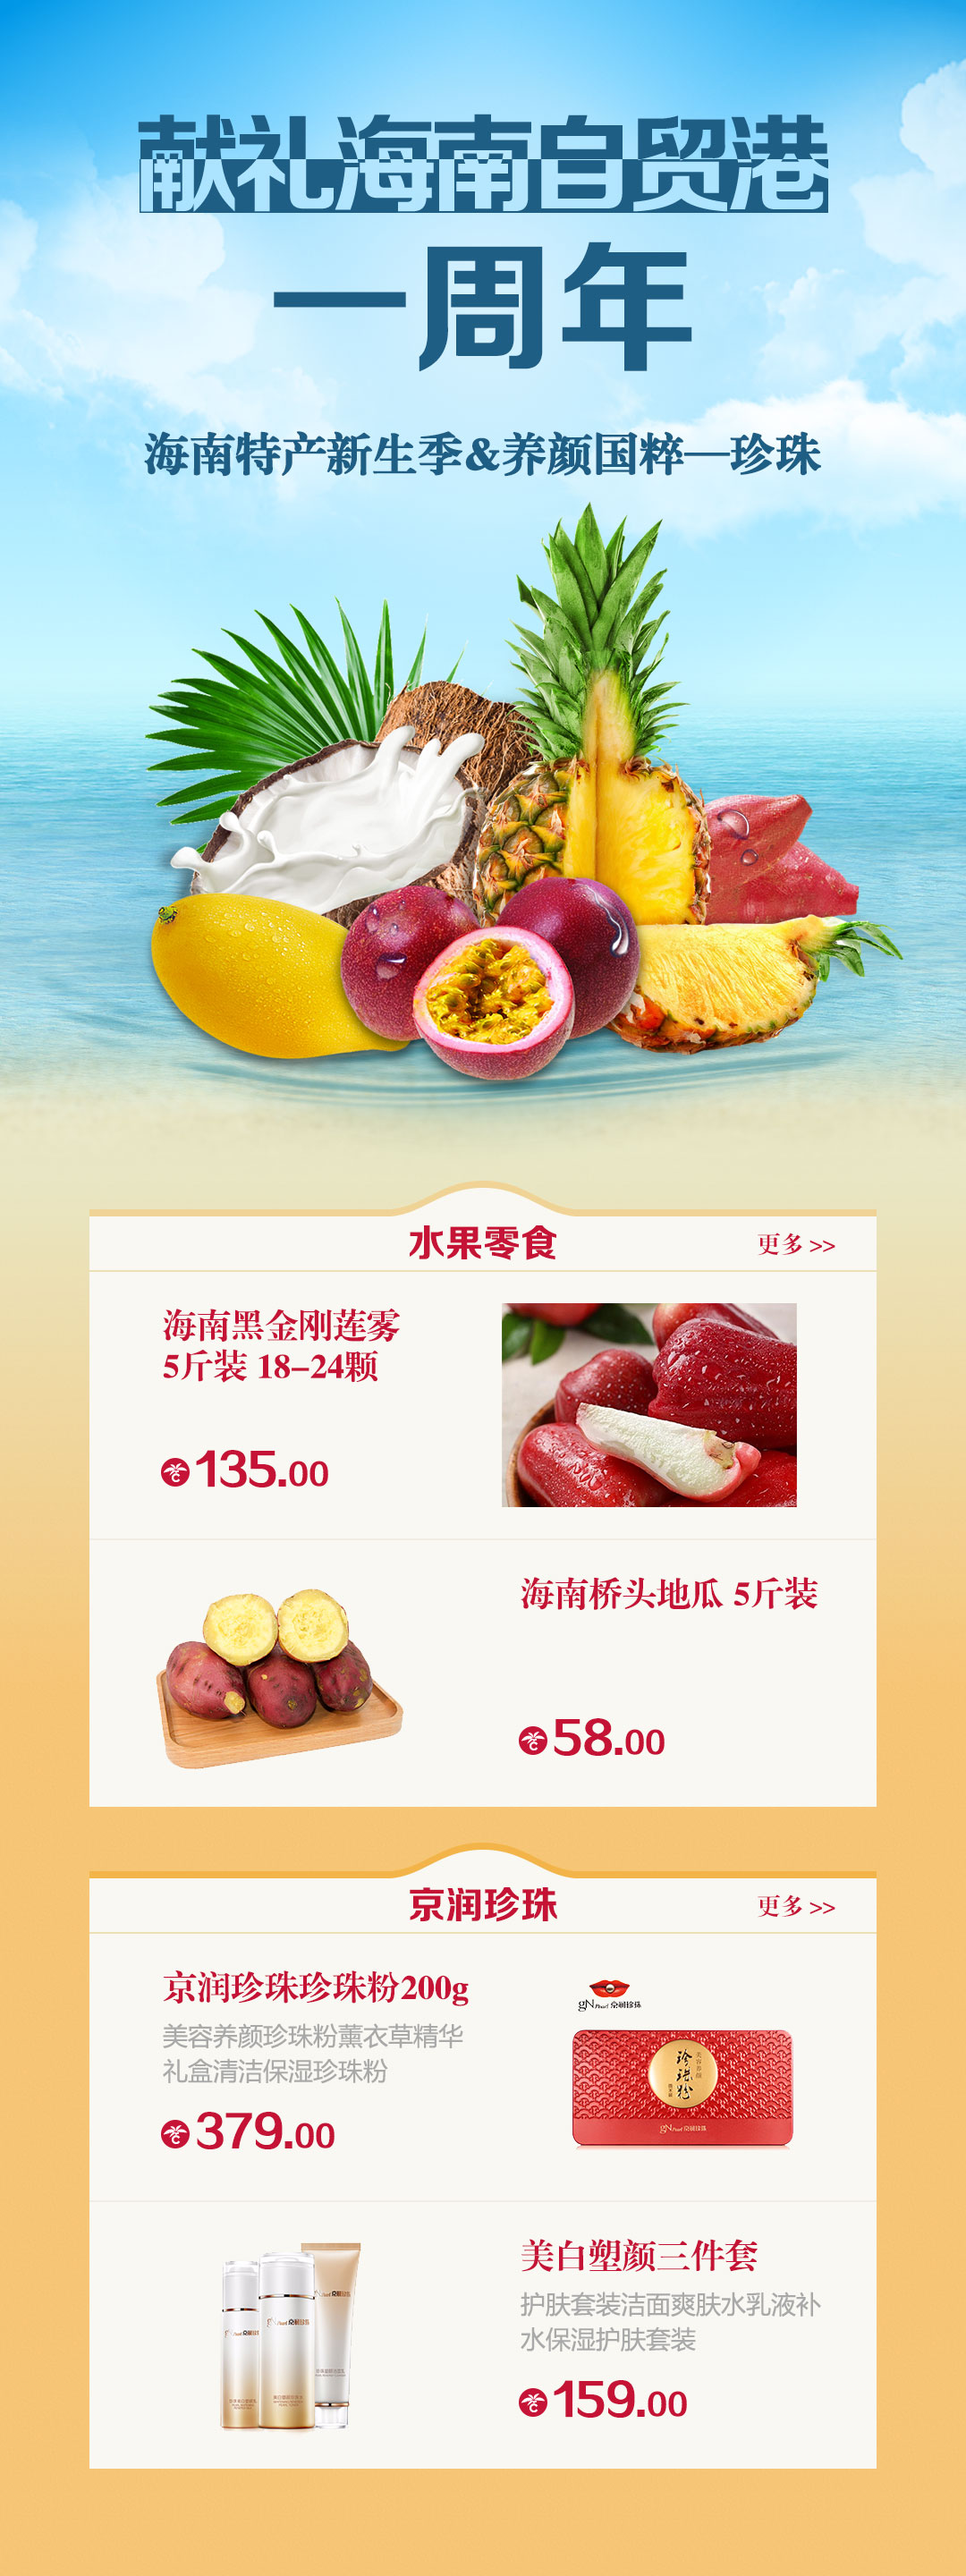
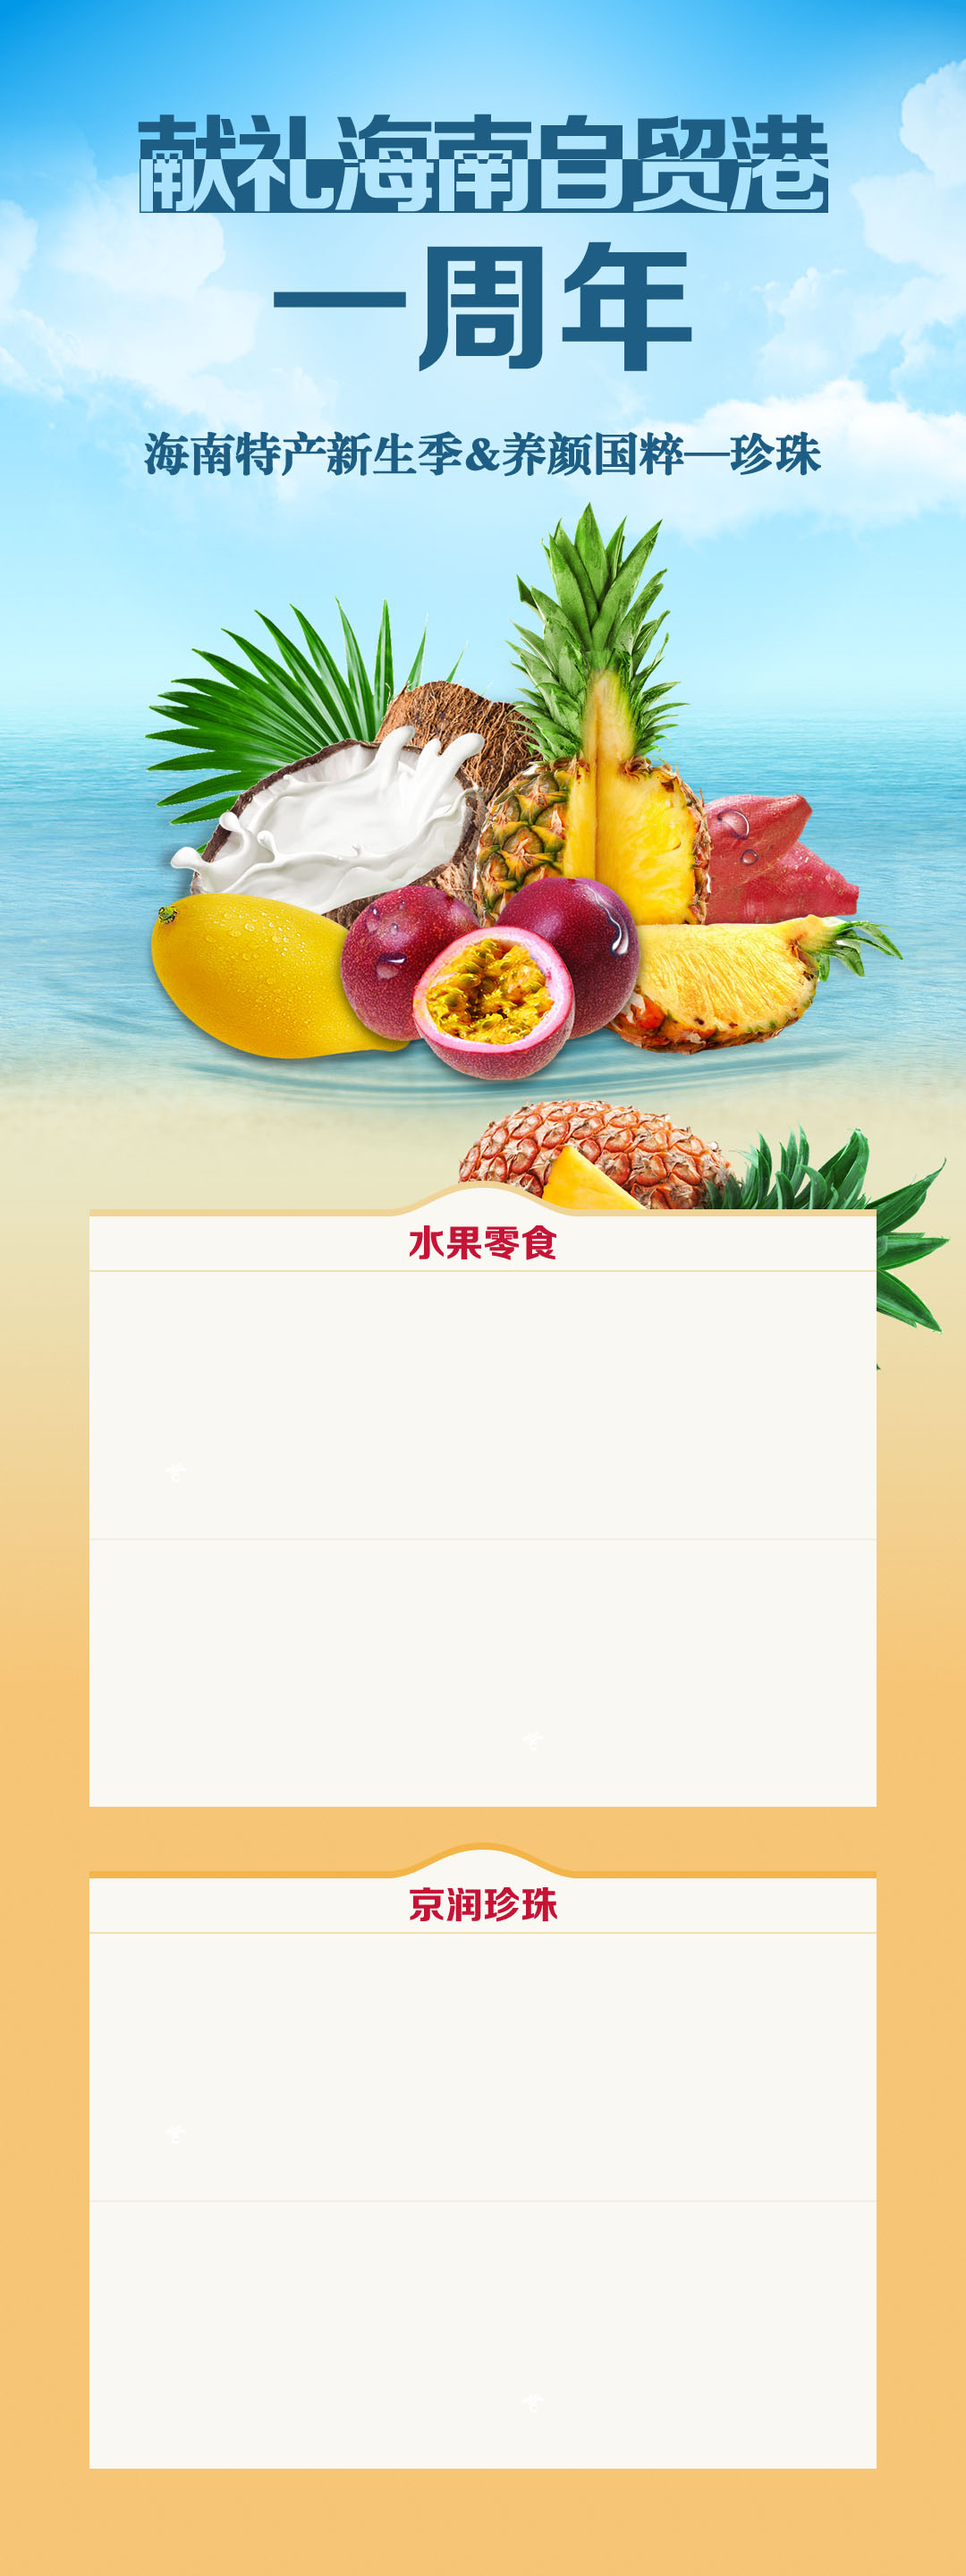
修改food.html

diff --git a/public/static/food.html b/public/static/food.html
@@ -4,7 +4,7 @@
   <meta name="viewport" content="width=device-width, initial-scale=1.0">
   <meta http-equiv="X-UA-Compatible" content="ie=edge">
   <title>海南特产</title>
-  <link rel="stylesheet" href="//at.alicdn.com/t/font_1126106_ah7hai1tsp.css">
+  <link rel="stylesheet" href="//at.alicdn.com/t/font_1244015_taaw89pdwhh.css">
   <style>
     html,body {
       margin: 0 auto;
@@ -38,7 +38,11 @@
       height: 20px;
       position: absolute;
       z-index: 2;
-      right: 0.93rem;
+      right: 0.8rem;
+      font-size: 10px;
+      padding-top: 5px;
+      font-weight: 600;
+      color: #C61436;
     }
     .more>a{
       display: block;
@@ -74,17 +78,114 @@
     .four{
       top: 855px;
     }
+    .flex{
+      display: flex;
+      height: 100%;
+      overflow: hidden;
+    }
+    .flex>.text-wrapper{
+      flex: 1;
+      padding: 14px 0 13px 18px;
+      display: flex;
+      flex-direction: column;
+      justify-content: space-between;
+    }
+    .flex>.text-wrapper>.name{
+      font-size: 13px;
+      color: #C61436;
+      font-weight: 600;
+      margin: 0;
+    }
+    .flex>.text-wrapper>.desc{
+      font-size: 10px;
+      color: #A9A9A9;
+      margin: 0;
+    }
+    .flex>.text-wrapper>.price{
+      font-size: 17px;
+      color: #C61436;
+      font-weight: 700;
+      margin: 0;
+    }
+    .flex>.text-wrapper>.price>.min-font{
+      font-size: 11px;
+      font-weight: 1100;
+    }
+    .flex>.text-wrapper>.price>.icon-img{
+      width: 12px;
+      height: 12px;
+    }
+    .flex>.img-wrapper{
+      flex: 1;
+      padding: 15px;
+    }
+    .flex>.img-wrapper>.img{
+      display: block;
+      width: 100%;
+      height: 100%;
+    }
   </style>
 </head>
 <body>
   <div class="main-wrapper">
     <div class="back iconfont" onclick="goBack()">&#xe61e;</div>
-    <div class="more fruit"><a onclick="goList('18591')"></a></div>
-    <div class="item first"><a onclick="goDetail('176496')"></a></div>
-    <div class="item second"><a onclick="goDetail('119408')"></a></div>
-    <div class="more pearls"><a onclick="goList('18591')"></a></div>
-    <div class="item third"><a onclick="goDetail('160842')"></a></div>
-    <div class="item four"><a onclick="goDetail('175811')"></a></div>
+    <div class="more fruit"><a onclick="goList('18591')">更多>></a></div>
+    <div class="item first">
+      <a onclick="goDetail('176496')">
+        <div class="flex">
+          <div class="text-wrapper">
+            <p class="name">海南特产 陆侨无核荔枝 红荔珍品 1500克/箱 约66颗</p>
+            <!-- <p class="desc">水果的文字介绍内容内容内容水果的文字</p> -->
+            <p class="price"><img class="icon-img" src="./icon.png" alt="无"/>338.<span class="min-font">00</span></p>
+          </div>
+          <div class="img-wrapper">
+            <img class="img" src="https://vendor.cocogc.cn/profile/shops/2019-05-30/890a188d-3126-4692-b3cc-3a5a2c955c14.jpeg" alt="无">
+          </div>
+        </div>
+      </a>
+    </div>
+    <div class="item second">
+      <a onclick="goDetail('119408')">
+        <div class="flex">
+          <div class="img-wrapper">
+            <img class="img" src="https://vendor.cocogc.cn/profile/shops/2019-04-12/a1ea1c2c-5919-4a55-a862-23619ad17c2c.png" alt="无">
+          </div>
+          <div class="text-wrapper" style="padding-left: 0">
+            <p class="name">海南特产 桥头地瓜 5斤装</p>
+            <p class="price"><img class="icon-img" src="./icon.png" alt="无"/>58.<span class="min-font">00</span></p>
+          </div>
+        </div>
+      </a>
+    </div>
+    <div class="more pearls"><a onclick="goList('18591')">更多>></a></div>
+    <div class="item third">
+      <a onclick="goDetail('160842')">
+        <div class="flex">
+          <div class="text-wrapper">
+            <p class="name">京润珍珠粉200g</p>
+            <p class="desc">美容养颜珍珠粉薰衣草精华礼盒清洁保湿珍珠粉</p>
+            <p class="price"><img class="icon-img" src="./icon.png" alt="无"/>379.<span class="min-font">00</span></p>
+          </div>
+          <div class="img-wrapper">
+            <img class="img" src="https://vendor.cocogc.cn/profile/shops/2019-04-16/3d47e410-95e1-403f-8570-d1d16dadaabf.jpeg" alt="无">
+          </div>
+        </div>
+      </a>
+    </div>
+    <div class="item four">
+      <a onclick="goDetail('175811')">
+        <div class="flex">
+            <div class="img-wrapper">
+              <img class="img" src="https://vendor.cocogc.cn/profile/shops/2019-04-17/09988228-a17f-4b9a-bc2b-d2b39a385007.jpeg" alt="无">
+            </div>
+            <div class="text-wrapper" style="padding-left: 0">
+              <p class="name">美白塑颜三件套</p>
+              <p class="desc">护肤套装洁面爽肤水乳液补水保湿护肤套装</p>
+              <p class="price"><img class="icon-img" src="./icon.png" alt="无"/>159.<span class="min-font">00</span></p>
+            </div>
+        </div>
+      </a>
+    </div>
   </div>
   <script>
   !function(e,t){function n(){t.body?t.body.style.fontSize=12*o+"px":t.addEventListener("DOMContentLoaded",n)}function d(){var e=i.clientWidth/10;i.style.fontSize=e+"px"}var i=t.documentElement,o=e.devicePixelRatio||1;if(n(),d(),e.addEventListener("resize",d),e.addEventListener("pageshow",function(e){e.persisted&&d()}),o>=2){var a=t.createElement("body"),s=t.createElement("div");s.style.border=".5px solid transparent",a.appendChild(s),i.appendChild(a),1===s.offsetHeight&&i.classList.add("hairlines"),i.removeChild(a)}}(window,document);

diff --git a/src/common/storage/storage.js b/src/common/storage/storage.js
@@ -21,42 +21,82 @@ class Storage {
     this.prefix = storage_prefix
   }
 
-  set (key, value) {
-    try {
-      value = JSON.stringify(value)
-    } catch (e) {
-      value = value
+  // set (key, value) {
+  //   try {
+  //     value = JSON.stringify(value)
+  //   } catch (e) {
+  //     value = value
+  //   }
+
+  //   this.store.setItem(this.prefix + key, value)
+
+  //   return this
+  // }
+
+  // get (key) {
+  //   if (!key) {
+  //     throw new Error('没有找到key。')
+  //   }
+  //   if (typeof key === 'object') {
+  //     throw new Error('key不能是一个对象。')
+  //   }
+  //   let value = this.store.getItem(this.prefix + key)
+
+  //   if (value === null) {
+  //     return undefined
+  //   }
+
+  //   try {
+  //     value = JSON.parse(value)
+  //   } catch (e) {
+  //     value = value
+  //   }
+  //   return value
+  // }
+
+  // remove (key) {
+  //   this.store.removeItem(this.prefix + key)
+  //   return this
+  // }
+
+  /**
+   对本地数据进行操作的相关方法，如localStorage,sessionStorage的封装
+  */
+  set(key, value, duration) {
+    if (key === 'token') {
+      return this.store[this.prefix + key] = JSON.stringify(value);
     }
-
-    this.store.setItem(this.prefix + key, value)
-
-    return this
+    var data = {
+      value: value,
+      expiryTime: !duration || isNaN(duration) ? 0 : this.getCurrentTimeStamp() + parseInt(duration)
+    };
+    this.store[this.prefix + key] = JSON.stringify(data);
   }
-
-  get (key) {
-    if (!key) {
-      throw new Error('没有找到key。')
+  get(key) {
+    if (key === 'token') {
+      return JSON.parse(this.store[this.prefix + key])
     }
-    if (typeof key === 'object') {
-      throw new Error('key不能是一个对象。')
+    var data = this.store[this.prefix + key];
+    if (!data || data === "null") {
+      return null;
     }
-    let value = this.store.getItem(this.prefix + key)
-
-    if (value === null) {
-      return undefined
-    }
-
+    var now = this.getCurrentTimeStamp();
+    var obj;
     try {
-      value = JSON.parse(value)
+      obj = JSON.parse(data);
     } catch (e) {
-      value = value
+      return null;
     }
-    return value
+    if (obj.expiryTime === 0 || obj.expiryTime > now) {
+      return obj.value;
+    }
+    return null;
   }
-
-  remove (key) {
-    this.store.removeItem(this.prefix + key)
-    return this
+  remove(key){
+    this.store.removeItem(this.prefix + key);
+  }
+  getCurrentTimeStamp() {
+    return Date.parse(new Date());
   }
 }
 
